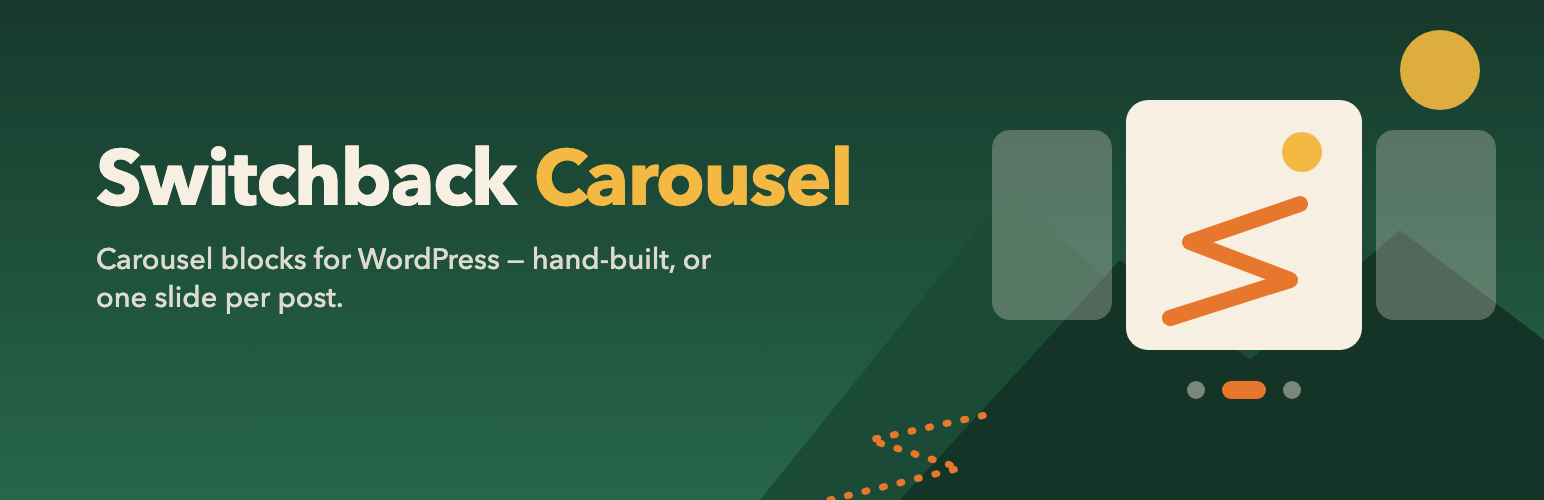
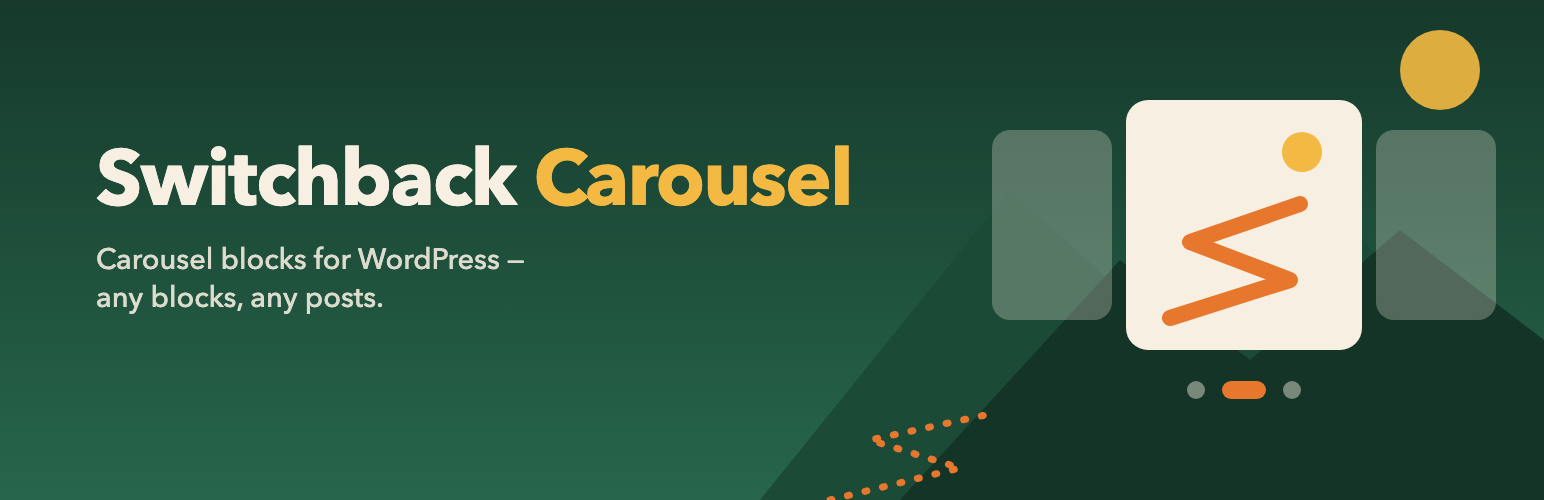
Document the Query Loop/AQL path and refresh the tagline
The readmes still described the homegrown query engine removed in
af0296b (field rules, Relationship and Related sources, the
register_source API and its PHP hooks). Users following them would look
for controls that no longer exist.

- README.md and readme.txt now explain post carousels as Query Loops
  with "Display as carousel", how the render filter wraps the rendered
  HTML without touching the query, why activation keys off
  switchback.enabled so one block can be both AQL and a carousel, and
  where token expansion hooks in.
- Drop the awkward "hand-built, or one slide per post" line and
  "Settings that make sense" heading. The banner now reads "any blocks,
  any posts"; the plugin header, block, package and readme descriptions
  share one tagline.
- Banner PNGs re-rendered from scripts/assets/banner.html.

Changed region(s): [[0.0622, 0.57, 0.2487, 0.63], [0.342, 0.48, 0.4663, 0.54]]

diff --git a/scripts/assets/banner.html b/scripts/assets/banner.html
@@ -37,7 +37,7 @@
 	</svg>
 	<div class="copy">
 		<h1>Switchback <span>Carousel</span></h1>
-		<p>Carousel blocks for WordPress — hand-built, or one slide per post.</p>
+		<p>Carousel blocks for WordPress —<br>any blocks, any posts.</p>
 	</div>
 </div>
 </body></html>

diff --git a/switchback-carousel.php b/switchback-carousel.php
@@ -2,7 +2,7 @@
 /**
  * Plugin Name:       Switchback Carousel
  * Plugin URI:        https://github.com/bmx269/switchback-carousel
- * Description:       Composable carousel blocks with manual slides or slides generated from any post type, filterable by taxonomy and core or SCF/ACF fields. Built on Splide.
+ * Description:       Carousel blocks for WordPress. Build slides by hand, or turn any Query Loop into a carousel. Works with Advanced Query Loop. Built on Splide.
  * Version:           1.0.0
  * Requires at least: 6.7
  * Requires PHP:      8.0

diff --git a/README.md b/README.md
@@ -1,94 +1,95 @@
 # Switchback Carousel
 
-Carousel blocks for the WordPress block editor. Build slides by hand, or let a carousel make one slide per post from any post type, with the first slide as the design. Posts can be filtered by terms, authors, keyword and **core or SCF/ACF field values**. Sliding is powered by [Splide](https://splidejs.com/).
+Carousel blocks for WordPress. Build slides by hand, or turn any Query Loop into a carousel, including one powered by [Advanced Query Loop](https://wordpress.org/plugins/advanced-query-loop/). Sliding is powered by [Splide](https://splidejs.com/).
 
 ## Blocks
 
 | Block | What it does |
 |---|---|
-| `switchback-carousel/carousel` | The wrapper. Holds the track plus controls, headings, buttons or anything else. Can float the arrows over the slides. |
-| `switchback-carousel/track` | The moving part: hand-built slides, or slides generated from posts. Layout, motion, autoplay and edge settings live here. |
-| `switchback-carousel/slide` | One slide. In a query carousel, the first slide is the design repeated for every post. |
+| `switchback-carousel/carousel` | The wrapper. Holds the slides plus controls, headings, buttons or anything else. Can float the arrows over the slides. |
+| `switchback-carousel/track` | The moving part for hand-built slides. Layout, motion, autoplay and edge settings live here. |
+| `switchback-carousel/slide` | One hand-built slide. |
 | `switchback-carousel/controls` | Previous/next arrows, pagination (dots, bars or segments), a progress bar, a slide counter, or a play/pause button. Put it anywhere inside the carousel, including inside a slide. Colour and alignment use core's own controls. |
 
-Saved content never contains Splide class names; the front-end script adds them when it mounts, so content stays independent of the sliding engine.
+Post carousels don't need a block of their own. Switchback adds a **Display as carousel** setting to the core Query Loop block (see [Carousels from posts](#carousels-from-posts)).
+
+Saved content never contains Splide class names. The front-end script adds them when it mounts, so content doesn't depend on the slider library.
 
 ## Settings
 
-- **Layout per device**: slides side by side, slides per move, and a peek at the next slide (%) — for desktop, tablet (≤781px) and phones (≤480px), set by switching the editor's device preview. Tablet falls back to desktop; phones fall back to one slide. Narrowest/widest slide width, and slides aligned from the start or centered.
+- **Layout per device**: slides side by side, slides per move, and a peek at the next slide (%) for desktop, tablet (≤781px) and phones (≤480px), set by switching the editor's device preview. Tablet falls back to desktop; phones fall back to one slide. Narrowest/widest slide width, and slides aligned from the start or centered.
 - **Motion**: slide or fade, transition time, what happens at the last slide (stop, rewind, endless), dragging (snap, glide freely, off), mouse wheel/trackpad, hand cursor, direction (site language, LTR, RTL).
 - **Autoplay**: step by step or a continuous flow; pause on hover. Always pauses while a visitor focuses the carousel and for visitors who prefer reduced motion.
 - **Edges**: let slides show past the track edge (for full-bleed layouts), fade both edges or the trailing edge.
-- **Linked layout**: in hand-built tracks, rearranging or restyling one slide updates the others while each keeps its content. Each slide also has **Copy layout to other slides**.
+- **Linked layout**: rearranging or restyling one hand-built slide updates the others while each keeps its content. Each slide also has **Copy layout to other slides**.
 - **Accessibility**: Splide's carousel semantics and live announcements, labelled slides ("3 of 8"), a focusable track that responds to arrow keys, disabled states at the ends, a real play/pause control, and visible focus styles.
 - **Without JavaScript** the slides remain a native horizontally scrolling row.
 
-## Slides from posts
+## Carousels from posts
 
-Set **Slides → Content** to *From posts*. The first slide becomes the design; add Post Featured Image, Post Title, Post Date, or paragraphs bound to fields, and every post renders through it.
+Any Query Loop block can render as a carousel. WordPress picks the posts and Switchback handles the display:
 
-The editor preview comes from `POST /switchback-carousel/v1/preview`, which runs the same PHP as the front end, so what editors see is what visitors get.
+1. Add a **Switchback Carousel** block and replace its track with a **Query Loop**, or start from the **Latest posts** pattern, which is already set up this way.
+2. Select the Query Loop and turn on **Carousel display → Display as carousel**.
+3. Design one post inside the Post Template. Every post becomes a slide.
+4. Add **Carousel Controls** anywhere inside the Switchback Carousel for arrows, pagination and the rest.
 
-### Sources
+The **Carousel display** panel on the Query Loop offers:
 
-| Source | Shows |
-|---|---|
-| **Posts** | Any public post type. Sort by publish date, last updated, title, page order, random, comment count or a field. Narrow by terms, authors, keyword, parent page, sticky posts, leaving out the current post, and field rules. |
-| **Related to this post** | Posts sharing a term with the post being viewed. |
-| **Relationship field** | The posts picked in an SCF/ACF Relationship or Post Object field (or any field storing post IDs) on the post being viewed, in the order picked. |
+- **Columns** for desktop, tablet and mobile, or **Fluid columns**: set a minimum slide width and the carousel fits as many slides as the viewport allows, with no fixed breakpoints.
+- **At the end**: stop, rewind or endless loop.
+- **Dragging**: snap, glide freely or off.
+- **Autoplay**: step by step or continuous, with an interval.
+- **Edges**: let slides spill past the edge, or fade the trailing or both edges.
 
-### Field rules (core meta and SCF/ACF)
+The gap between slides comes from the Query Loop's **Block spacing** setting.
 
-Pick a field from the post type's registered meta and SCF/ACF fields (or type any key), a condition — *is, is not, contains, doesn't contain, is more than, is at least, is less than, is at most, is one of, is none of, is between, is outside, is filled in, is empty* — a value, and how to compare it (text, whole number, decimal, date, date and time, time). Posts can match every rule or at least one.
+The **Switchback Carousel (Query)** variation in the inserter is a shortcut for steps 1 and 2 with plain core queries.
 
-Values can use tokens, with an optional day offset:
+### How it works
+
+Switchback stores its settings in a `switchback` attribute on `core/query` and reads them in a `render_block_core/query` filter. The filter adds Splide's track markup and a `data-switchback` options blob around the rendered `core/post-template` list, then enqueues the same front-end script that hand-built tracks use. Switchback only changes the HTML after it is rendered. It doesn't touch the query, so anything that changes the query keeps working.
+
+Carousel display switches on with `switchback.enabled`, not with the block's `namespace`. That matters for Advanced Query Loop, which identifies its blocks by `namespace: "advanced-query-loop"`. Because of this, a single Query Loop can be an AQL block and a Switchback carousel at the same time.
+
+In the editor, the preview is a horizontal row styled with the same column and gap variables the front end uses. Splide only mounts on the front end.
+
+### Advanced Query Loop
+
+[Advanced Query Loop](https://wordpress.org/plugins/advanced-query-loop/) (AQL) is the recommended way to filter beyond what core's Query Loop offers: post meta and SCF/ACF field queries, date queries, multiple post types, including or excluding posts by ID, child posts, sorting by meta, and more. Switchback doesn't depend on AQL. Everything works on a plain Query Loop, and AQL adds query options on top.
+
+To use them together:
+
+1. Insert an **Advanced Query Loop** block inside a Switchback Carousel and set up the query with AQL's controls.
+2. In the same block's sidebar, turn on **Carousel display → Display as carousel**.
+
+The **Latest posts** pattern saves its Query Loop with AQL's namespace and carousel display on. With AQL active, AQL picks it up. Without AQL, it renders as a normal core Query Loop.
+
+Start from an Advanced Query Loop block rather than the **Switchback Carousel (Query)** variation. The variation sets Switchback's own namespace, so AQL's controls won't appear on it.
+
+### Relative dates and tokens
+
+Switchback expands tokens in the final query arguments of every Query Loop. It hooks `query_loop_block_query_vars` for core and `aql_query_vars` for AQL, both at priority 20, after AQL has built its arguments. You can type relative values into AQL's meta and date fields instead of fixed dates. For example, a meta query of "`event_date` is at least `{today_ymd}`" makes an upcoming-events carousel that never goes stale.
 
 | Token | Becomes |
 |---|---|
-| `{today}`, `{today+7}` | `2026-09-26` |
-| `{today_ymd}` | `20260926` — SCF/ACF date pickers store dates this way |
+| `{today}`, `{today+7}`, `{today-30}` | `2026-09-26` |
+| `{today_ymd}` | `20260926`. SCF/ACF date pickers store dates this way. |
 | `{now}` | `2026-09-26 14:05:00` |
-| `{current_post_id}`, `{current_user_id}` | `42` |
+| `{current_post_id}` | ID of the post being viewed |
+| `{current_user_id}` | ID of the logged-in user |
 
-Keys starting with an underscore are protected and ignored unless allowed with the `switchback_carousel_field_allowed` filter.
+Date tokens take a day offset. Tokens expand in any Query Loop, not only in carousels.
 
 ## Extending
 
-### Add a slide source
-
-```php
-add_action( 'switchback_carousel_register_sources', function () {
-	switchback_carousel_register_source( 'upcoming-events', array(
-		'label'       => __( 'Upcoming events', 'my-plugin' ),
-		'description' => __( 'Events from today onward, soonest first.', 'my-plugin' ),
-		'controls'    => array( 'limit' ), // Editor controls to show; leave out for the general set.
-		'callback'    => function ( array $query, int $context_post, ?WP_Block $block ): array {
-			return array(
-				'post_type'      => 'event',
-				'posts_per_page' => $query['limit'],
-				'meta_key'       => 'start_date',
-				'orderby'        => 'meta_value',
-				'order'          => 'ASC',
-				'meta_query'     => array( array( 'key' => 'start_date', 'compare' => '>=', 'value' => wp_date( 'Ymd' ) ) ),
-			);
-		},
-	) );
-} );
-```
-
-The callback returns `WP_Query` arguments. Controls: `postType`, `limit`, `skip`, `sort`, `terms`, `authors`, `keyword`, `parent`, `stickies`, `excludeCurrentPost`, `fields`, `relationshipField`.
-
-### Hooks
-
-| Hook | Use |
-|---|---|
-| `switchback_carousel_query_args( $args, $source, $query, $block )` | Change the `WP_Query` arguments of any query carousel. `$block` is null in editor previews. |
-| `switchback_carousel_field_allowed( $allowed, $key )` | Allow or block a meta key in field rules and sorting. |
-| `switchback_carousel_fields( $fields, $post_type )` | Change the fields offered in the editor. |
-
 ### JavaScript
 
-`window.switchback.mount( scope )` mounts carousels added to the page later (carousels inserted into the DOM are picked up automatically), `window.switchback.unmount( node )` tears them down, and `window.switchback.get( trackElement )` returns the Splide instance.
+`window.switchback.mount( scope )` mounts carousels added to the page later (carousels inserted into the DOM are picked up automatically), `window.switchback.unmount( node )` tears them down, and `window.switchback.get( trackElement )` returns the Splide instance. Query Loop carousels count as tracks: the `.wp-block-query` element is the track.
+
+### Changing queries
+
+Post carousels are ordinary Query Loops, so use WordPress's `query_loop_block_query_vars` filter, or AQL's `aql_query_vars`, to change the query.
 
 ## Development
 
